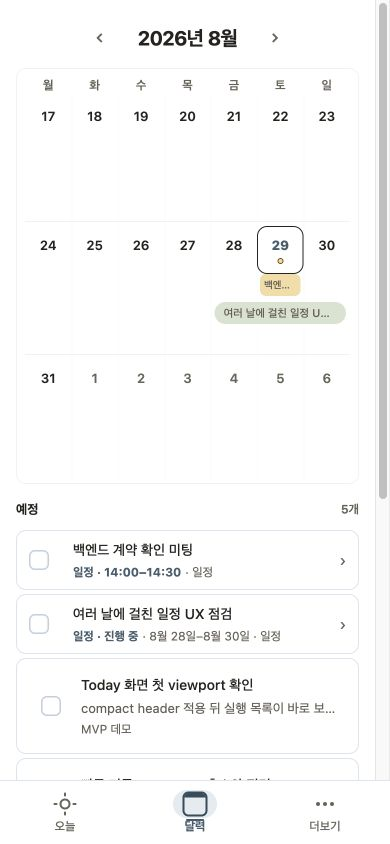
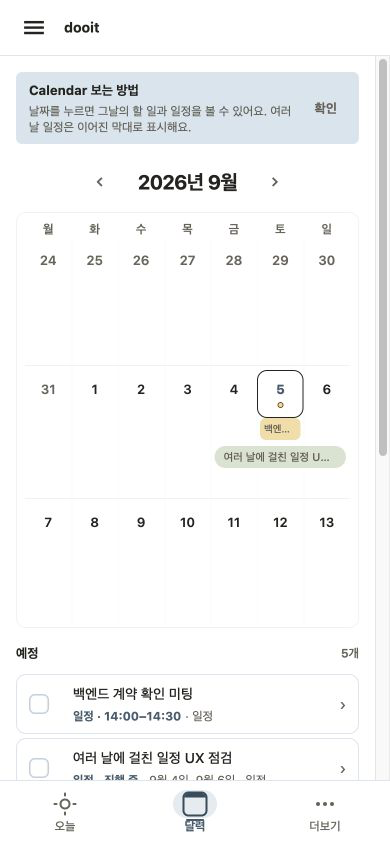
대표 화면 캡처와 검증 기준 갱신

diff --git a/docs/README.md b/docs/README.md
@@ -24,7 +24,7 @@
 | [`screenshots`](./screenshots/README.md)                      | 실제 앱 화면 캡처와 촬영 기준                      | `README.md`, `manifest.json`, 화면별 PNG                                                                             |
 | [`audits`](./audits/uf-01-first-use-2026-08-23/README.md)     | 최신 사용자 흐름의 화면 근거                       | `uf-01`~`uf-08`, Workspace 반응형·접근성 점검                                                                        |
 
-현재 `screenshots/`에는 2026-08-29에 촬영한 mock Web 390×844 기준 실제 화면 PNG가 있다. 촬영일과 기준 커밋은 [`screenshots/README.md`](./screenshots/README.md)와 `manifest.json`에서 관리하며, 대표 캡처는 촬영 후 7일이 되기 전에 갱신한다. 마켓용 편집 이미지는 `marketing/`에 초안으로 생성되어 있으며, 최종 제출 전에는 [`marketing/APP_STORE_ASSETS.md`](./marketing/APP_STORE_ASSETS.md)의 규격에 맞춰 다시 export한다.
+현재 `screenshots/`에는 2026-09-05에 촬영한 mock Web 390×844 기준 실제 화면 PNG가 있다. 촬영일과 기준 커밋은 [`screenshots/README.md`](./screenshots/README.md)와 `manifest.json`에서 관리하며, 대표 캡처는 촬영 후 7일이 되기 전에 갱신한다. 마켓용 편집 이미지는 `marketing/`에 초안으로 생성되어 있으며, 최종 제출 전에는 [`marketing/APP_STORE_ASSETS.md`](./marketing/APP_STORE_ASSETS.md)의 규격에 맞춰 다시 export한다.
 
 `audits/`에는 현재 판단에 필요한 최신 근거만 둔다. 흐름 전체는 `uf-01`~`uf-08`을 기준으로 하고, 별도 audit은 반응형·접근성처럼 UF 캡처에 없는 근거만 유지한다. 현재 UI로 대체된 과거 audit은 Git 이력에서 확인한다.
 

diff --git a/docs/product/ROADMAP.md b/docs/product/ROADMAP.md
@@ -7,7 +7,7 @@ Last updated: 2026-09-05
 ## 현재 상태
 
 - 핵심 개인·Workspace 흐름, 오늘 계획·하루 마감·한 가지 실행과 앱 밖 빠른 기록 prototype이 구현됐다.
-- 최신 테스트 기준선은 92 suites, 470 tests 통과다. 대표 화면 캡처는 7일 갱신 시점에 도달해 재촬영이 필요하다.
+- 최신 검증 기준선은 92 suites, 470 tests 통과이며 대표 화면 캡처는 2026-09-05 기준으로 갱신됐다.
 - 백엔드 source `6a78afe`에 일일 결과 summary, 개인 카테고리 요약, Workspace 체크리스트와 빠른 등록 파싱 확장이 반영됐다.
 - production은 readiness `UP`이지만 metadata가 `commitSha=local`, `imageTag=docker-20260829`를 반환하므로 최신 source 배포와 migration 적용은 아직 증명되지 않았다.
 - EAS project id는 기존 `@hyunseung2/todolab-mobile`을 가리키지만 앱 slug는 `dooit-mobile`이다. 새 `@hyunseung2/dooit-mobile` project 연결 전에는 release 후보를 만들지 않는다.

diff --git a/docs/design/SCREEN_GUIDE.md b/docs/design/SCREEN_GUIDE.md
@@ -8,7 +8,7 @@ Dooit Mobile의 주요 화면을 실제 캡쳐와 함께 설명하는 문서다.
 
 - 화면 설명과 캡쳐 기준은 최신 UI 구조 기준으로 정리되어 있다.
 - mock Web 390×844 viewport 기준 실제 PNG 캡쳐를 생성했다.
-- 현재 대표 캡처 촬영일은 **2026-08-29**, 기준 커밋은 `3d868ef`이다. 상세 환경과 화면 상태는 [`screenshots/README.md`](../screenshots/README.md)에서 확인한다.
+- 현재 대표 캡처 촬영일은 **2026-09-05**, 기준 커밋은 `11a5727`이다. 상세 환경과 화면 상태는 [`screenshots/README.md`](../screenshots/README.md)에서 확인한다.
 - 사용자 흐름별 최신 mock Web 캡처와 판정은 [`USER_FLOW_CATALOG.md`](../product/USER_FLOW_CATALOG.md)의 UF-01~UF-08에서 관리한다.
 - `docs/screenshots`는 화면 구조 참고용이며 실제 release 판정은 최신 APK와 실기기 QA를 따른다.
 - 화면 구조가 바뀌면 아래 파일명을 유지한 채 다시 캡쳐한다.

diff --git a/docs/qa/SMOKE_TEST_LOG.md b/docs/qa/SMOKE_TEST_LOG.md
@@ -7,12 +7,12 @@ Last updated: 2026-09-05
 ## 자동 검증 기준선
 
 - 날짜: 2026-09-05
-- frontend 기준: 현재 작업 트리, base `6f89153`
+- frontend 기준: 현재 작업 트리, base `11a5727`
 - 명령: `npm run validate`
-- 결과: TypeScript·ESLint·Prettier 통과 후 대표 화면 캡처 7일 경과 검사에서 중단
-- 별도 재검증: release 정적 검사와 Jest 통과
+- 결과: 통과
 - 테스트: 92 suites, 470 tests
-- 후속: `docs/screenshots/` 대표 화면을 2026-09-05 기준으로 재촬영한 뒤 전체 `npm run validate` 재실행
+- 대표 화면: Expo Web mock · Chrome · 390×844, 14개 PNG를 2026-09-05 기준으로 갱신
+- 브라우저: ChatGPT 앱 내장 브라우저가 `Invalid browser service environment`로 연결되지 않아 Chrome 자동화로 대체했으며 console error는 없었음
 
 ## 백엔드 source 확인
 

diff --git a/docs/screenshots/README.md b/docs/screenshots/README.md
@@ -4,10 +4,11 @@
 
 ## 최신 캡처
 
-- 촬영일: **2026-08-29**
-- 기준 커밋: `3d868ef`
+- 촬영일: **2026-09-05**
+- 기준 커밋: `11a5727`
 - 환경: Expo Web · mock API · Chrome · 390×844 · light theme
 - 시간대: `Asia/Seoul`
+- 캡처 도구: ChatGPT 앱 내장 브라우저가 `Invalid browser service environment`로 연결되지 않아 Chrome 자동화로 대체
 - 상세 상태: [`manifest.json`](./manifest.json)
 
 ## 갱신 규칙
